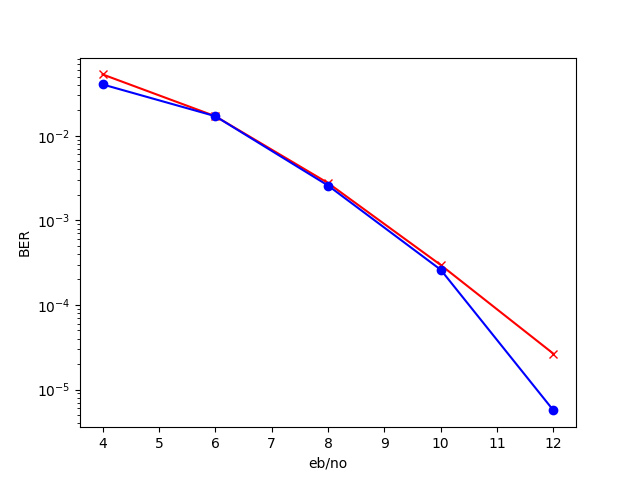
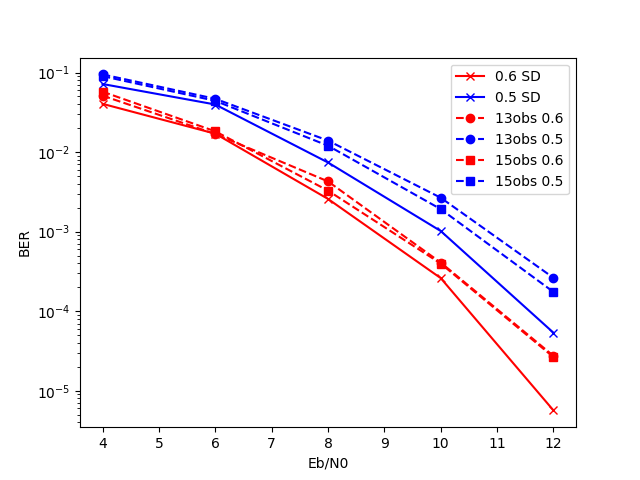
completedFigure

diff --git a/knearest.py b/knearest.py
@@ -1,6 +1,5 @@
 from os import sep
 from random import randrange, seed
-from turtle import shape
 import matplotlib.pyplot as plt
 import numpy as np
 from sklearn.cluster import KMeans, SpectralClustering
@@ -134,7 +133,7 @@ class cluster:
 
 
 rng = range(4,13,2)
-num_it = [10,100,100,1000,1000]
+num_it = [10,10,100,100,1000]
 Y = []
 sysModel = cluster()
 sysModel.fitModel()
@@ -142,7 +141,8 @@ for i,v in zip(rng,num_it):
     Y += [sysModel.testModel(ebno=i,num_iteration=v)]
 
 uncoded6_SD = [0.0404, 0.017024793388429754, 0.002578268876611418, 0.00026040995230114736, 5.66213743e-06]
-# uncoded5_SD = [0.08416667, 0.04545455, 0.01043796, 0.00117042]
+# uncoded5_SD = [0.07172414, 0.03961905, 0.00739927, 0.00101771, 5.36256457e-05]
+
 # array([0.0816]), array([0.04938272]), array([0.00764818]), array([0.00138072])
 # [array([0.08416667]), array([0.03162791]), array([0.00793651]), array([0.00103977])]
 
@@ -152,6 +152,40 @@ plt.plot(rng,uncoded6_SD,'bo-')
 plt.ylabel('BER')
 plt.xlabel('eb/no')
 plt.show()
+
+
+
+## 13 observation
+# tau = 0.6
+# 0.051219512195121955
+# 0.016880081300813005
+# 0.004278455284552845
+# 0.0004085365853658537
+# 2.7439024390243903e-05
+
+# tau = 0.5
+# 0.09470468431771893
+# 0.04675152749490835
+# 0.013951120162932791
+# 0.0026680244399185336
+# 0.00026272912423625254
+
+
+
+## 15 observation
+# tau = 0.6
+# 0.057433808553971476
+# 0.018228105906313647
+# 0.0032790224032586564
+# 0.0003971486761710794
+# 3.1568228105906315e-05
+
+# tau = 0.5
+# 0.09010204081632653
+# 0.04408163265306122
+# 0.012030612244897957
+# 0.0019183673469387757
+# 0.00017448979591836735
 
 
 

diff --git a/ploting.py b/ploting.py
@@ -1,0 +1,36 @@
+import matplotlib.pyplot as plt
+
+
+
+rng = range(4,13,2)
+
+uncoded6_SD = [0.0404, 0.017024793388429754, 0.002578268876611418, 0.00026040995230114736, 5.66213743e-06]
+uncoded5_SD = [0.07172414, 0.03961905, 0.00739927, 0.00101771, 5.36256457e-05]
+
+
+
+# 13 obs
+obs13_6=[0.051219512195121955,0.016880081300813005,0.004278455284552845,0.0004085365853658537,2.7439024390243903e-05]
+obs13_5=[0.09470468431771893,0.04675152749490835,0.013951120162932791,0.0026680244399185336,0.00026272912423625254]
+
+# 15 obs
+obs15_6=[0.057433808553971476,0.018228105906313647,0.0032790224032586564,0.0003971486761710794,2.6476578411405295e-05]
+obs15_5=[0.09010204081632653,0.04408163265306122,0.012030612244897957,0.0019183673469387757,0.00017448979591836735]
+
+
+
+
+plt.yscale("log")
+plt.xlabel("Eb/N0")
+plt.ylabel("BER")
+plt.plot(rng,uncoded6_SD,'rx-')
+plt.plot(rng,uncoded5_SD,'bx-')
+plt.plot(rng,obs13_6,'ro--')
+plt.plot(rng,obs13_5,'bo--')
+plt.plot(rng,obs15_6,'rs--')
+plt.plot(rng,obs15_5,'bs--')
+plt.legend(['0.6 SD','0.5 SD',
+            '13obs 0.6','13obs 0.5',
+            '15obs 0.6','15obs 0.5',])
+plt.show()
+
